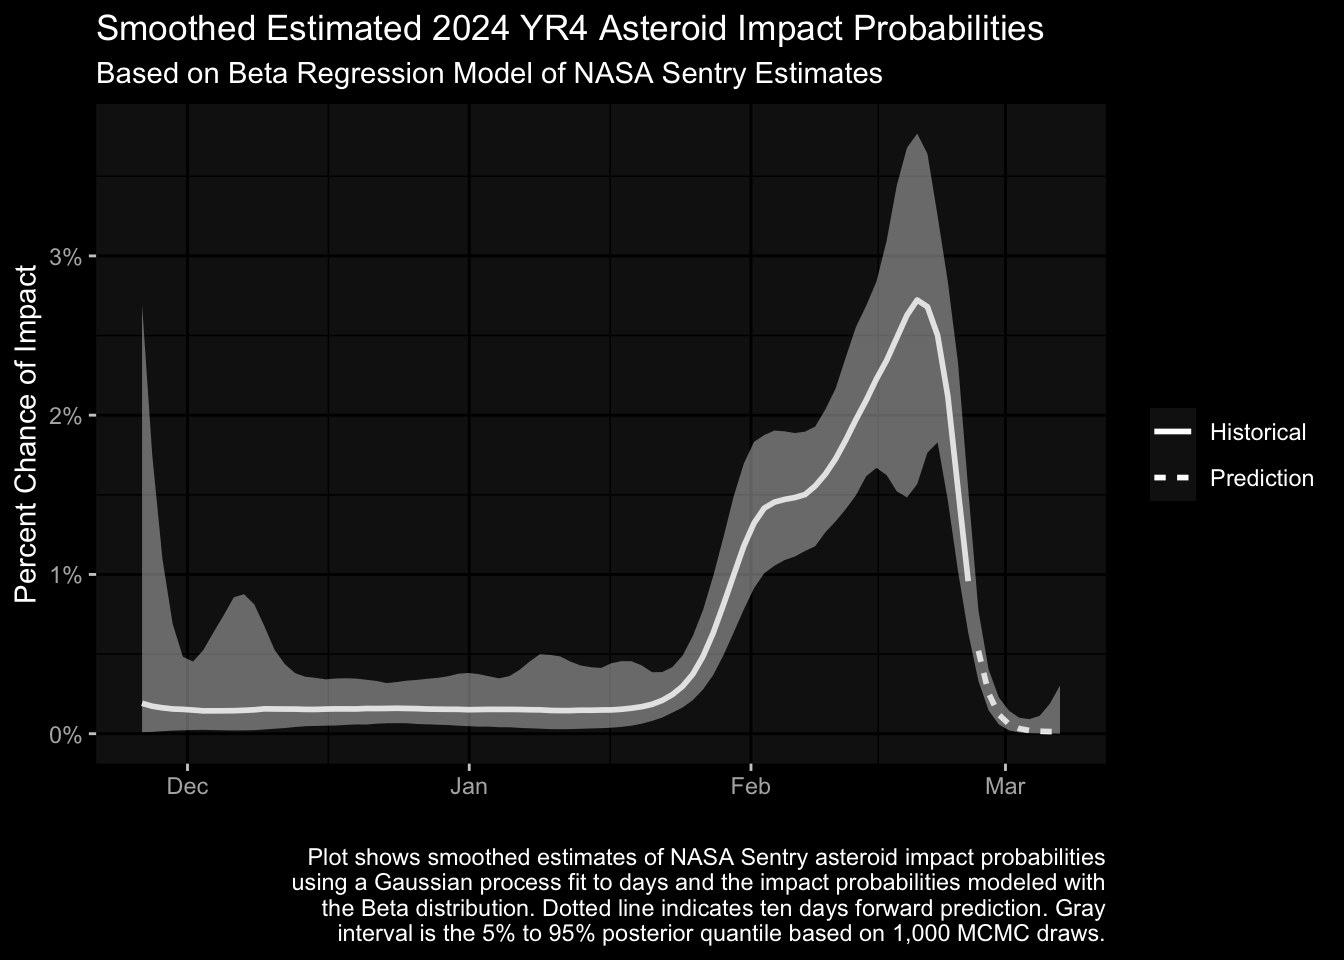
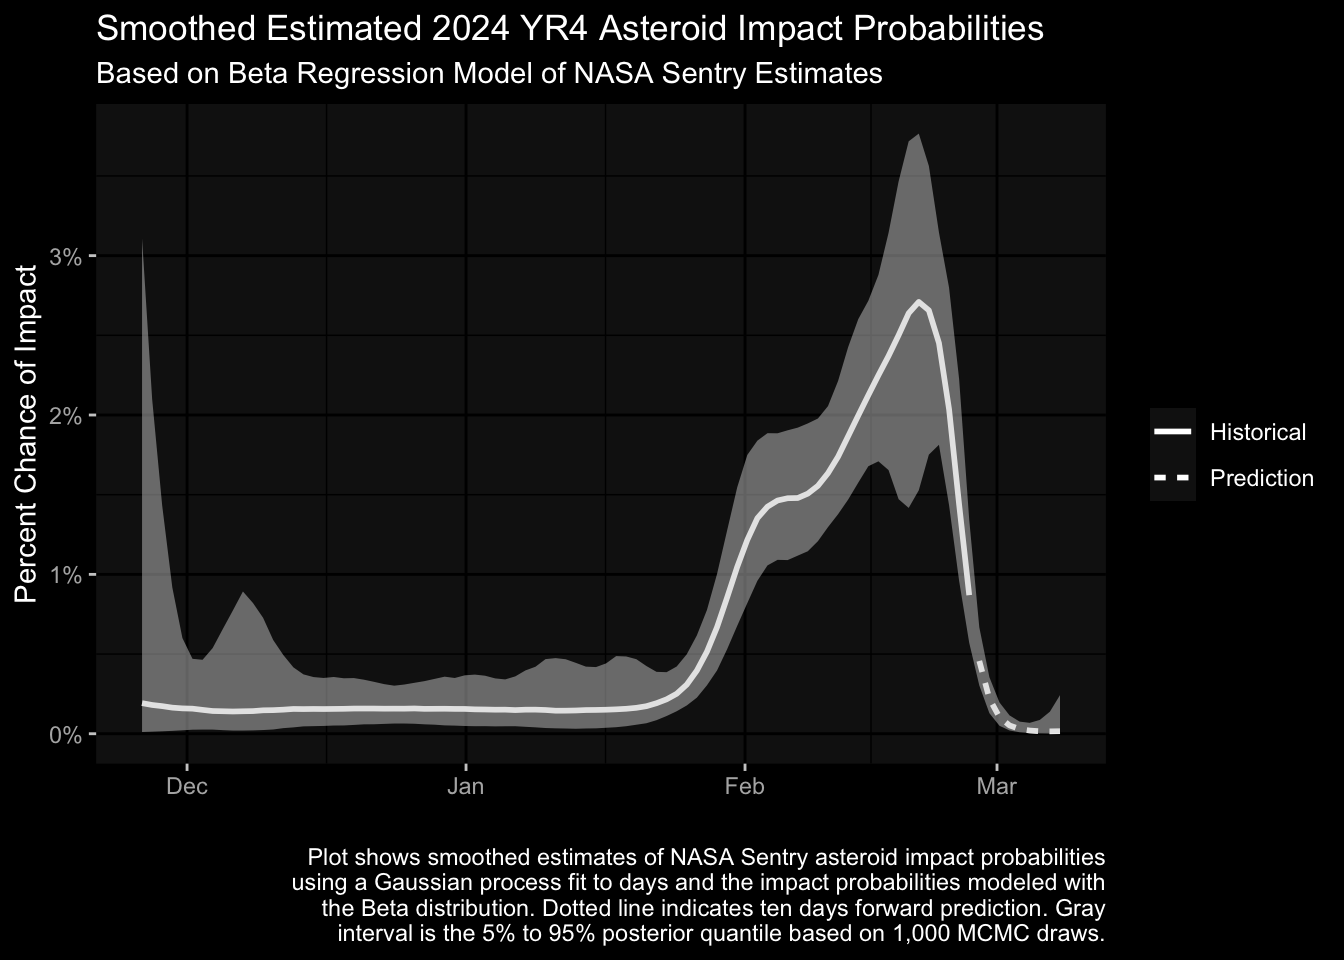
NASA Sentry smoother prediction 2025-02-26

diff --git a/_site/post/nasa_beta/index.html b/_site/post/nasa_beta/index.html
@@ -409,12 +409,12 @@ gtag('config', 'G-BHP1PJ9LEX', { 'anonymize_ip': true});
 <div class="cell-output cell-output-stdout">
 <pre><code>Running MCMC with 2 chains, at most 8 in parallel...
 
-Chain 1 finished in 43.0 seconds.
-Chain 2 finished in 47.2 seconds.
+Chain 1 finished in 43.4 seconds.
+Chain 2 finished in 47.9 seconds.
 
 Both chains finished successfully.
-Mean chain execution time: 45.1 seconds.
-Total execution time: 47.4 seconds.</code></pre>
+Mean chain execution time: 45.6 seconds.
+Total execution time: 48.0 seconds.</code></pre>
 </div>
 <details class="code-fold">
 <summary>Show the code</summary>
@@ -562,7 +562,7 @@ Total execution time: 47.4 seconds.</code></pre>
 </section>
 <section id="current-estimates" class="level2">
 <h2 class="anchored" data-anchor-id="current-estimates">Current Estimates</h2>
-<p>As mentioned above, NASA has released more estimates since February 18th. In this section, I re-fit the model and predict for up to 10 days head using all of their Sentry data going back to November 2024. I will keep updating this section on a daily basis as more data comes in. The estimates below are current as of <strong>Tuesday, February 25, 2025</strong>.</p>
+<p>As mentioned above, NASA has released more estimates since February 18th. In this section, I re-fit the model and predict for up to 10 days head using all of their Sentry data going back to November 2024. I will keep updating this section on a daily basis as more data comes in. The estimates below are current as of <strong>Wednesday, February 26, 2025</strong>.</p>
 <p>This code fits the model to the current data:</p>
 <div class="cell" data-layout-align="center">
 <details class="code-fold">
@@ -602,12 +602,12 @@ Total execution time: 47.4 seconds.</code></pre>
 <div class="cell-output cell-output-stdout">
 <pre><code>Running MCMC with 2 chains, at most 8 in parallel...
 
-Chain 1 finished in 32.8 seconds.
-Chain 2 finished in 40.1 seconds.
+Chain 1 finished in 33.1 seconds.
+Chain 2 finished in 44.3 seconds.
 
 Both chains finished successfully.
-Mean chain execution time: 36.4 seconds.
-Total execution time: 40.2 seconds.</code></pre>
+Mean chain execution time: 38.7 seconds.
+Total execution time: 44.5 seconds.</code></pre>
 </div>
 </div>
 <p>And here are the model predictions with 10 days ahead plus fitted estimates to all previous NASA Sentry predictions:</p>
